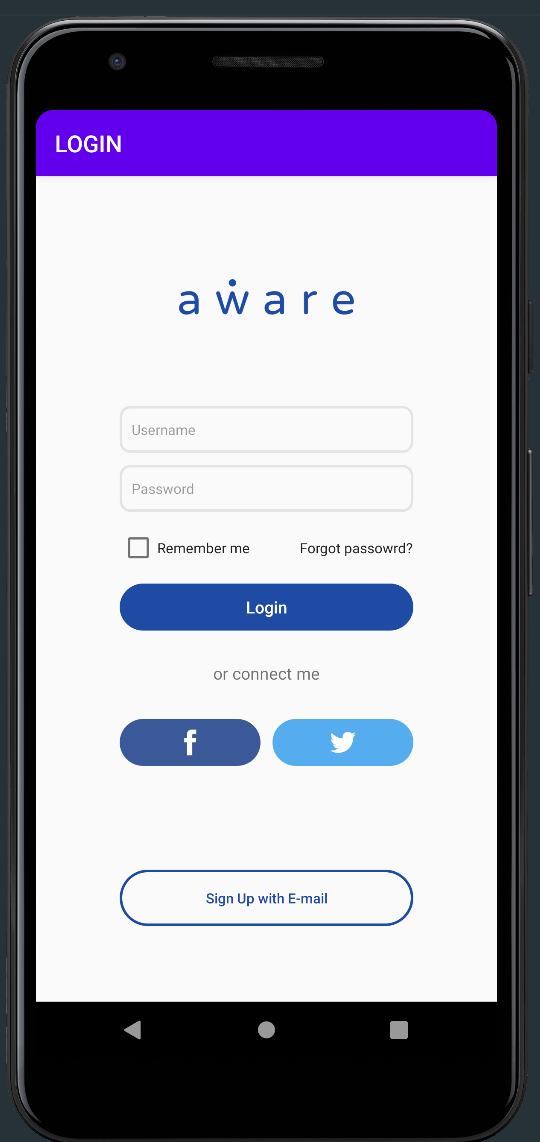
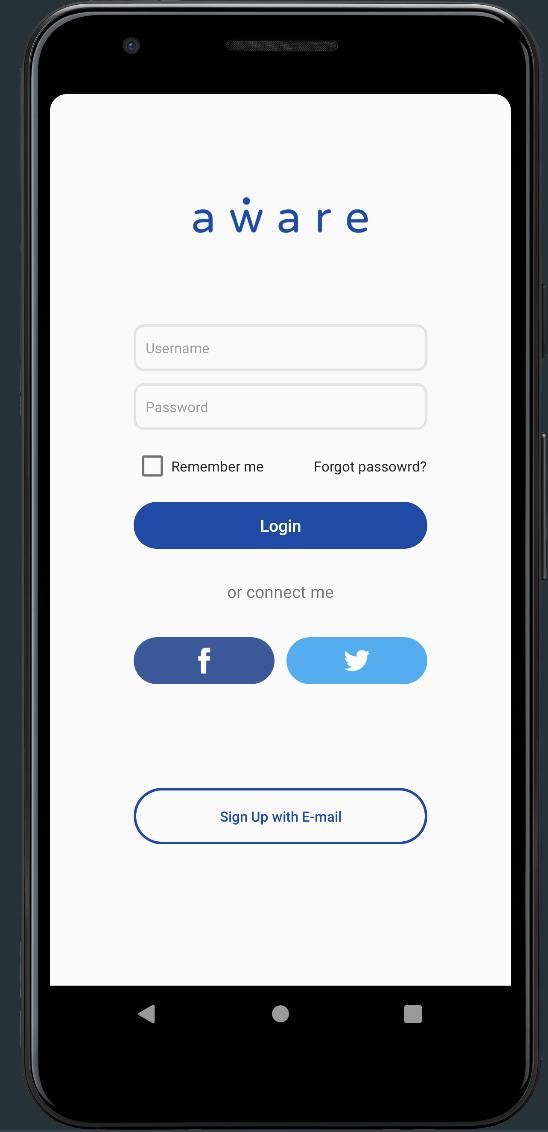
yl #0000 fix the issue abuout ActionBar not be hid

diff --git a/app/src/main/java/com/thoughtworks/androidtrain/LoginActivity.java b/app/src/main/java/com/thoughtworks/androidtrain/LoginActivity.java
@@ -1,10 +1,13 @@
 package com.thoughtworks.androidtrain;
 
 import android.app.ActionBar;
+import android.icu.text.CaseMap;
 import android.os.Bundle;
 import android.view.View;
 
 import androidx.appcompat.app.AppCompatActivity;
+
+import java.util.Objects;
 
 public class LoginActivity extends AppCompatActivity {
 
@@ -18,7 +21,6 @@ public class LoginActivity extends AppCompatActivity {
         decorView.setSystemUiVisibility(uiOptions);
         // Remember that you should never show the action bar if the
         // status bar is hidden, so hide that too if necessary.
-        ActionBar actionBar = getActionBar();
-        if (actionBar!=null) actionBar.hide();
+        Objects.requireNonNull(getSupportActionBar()).hide();
     }
 }
